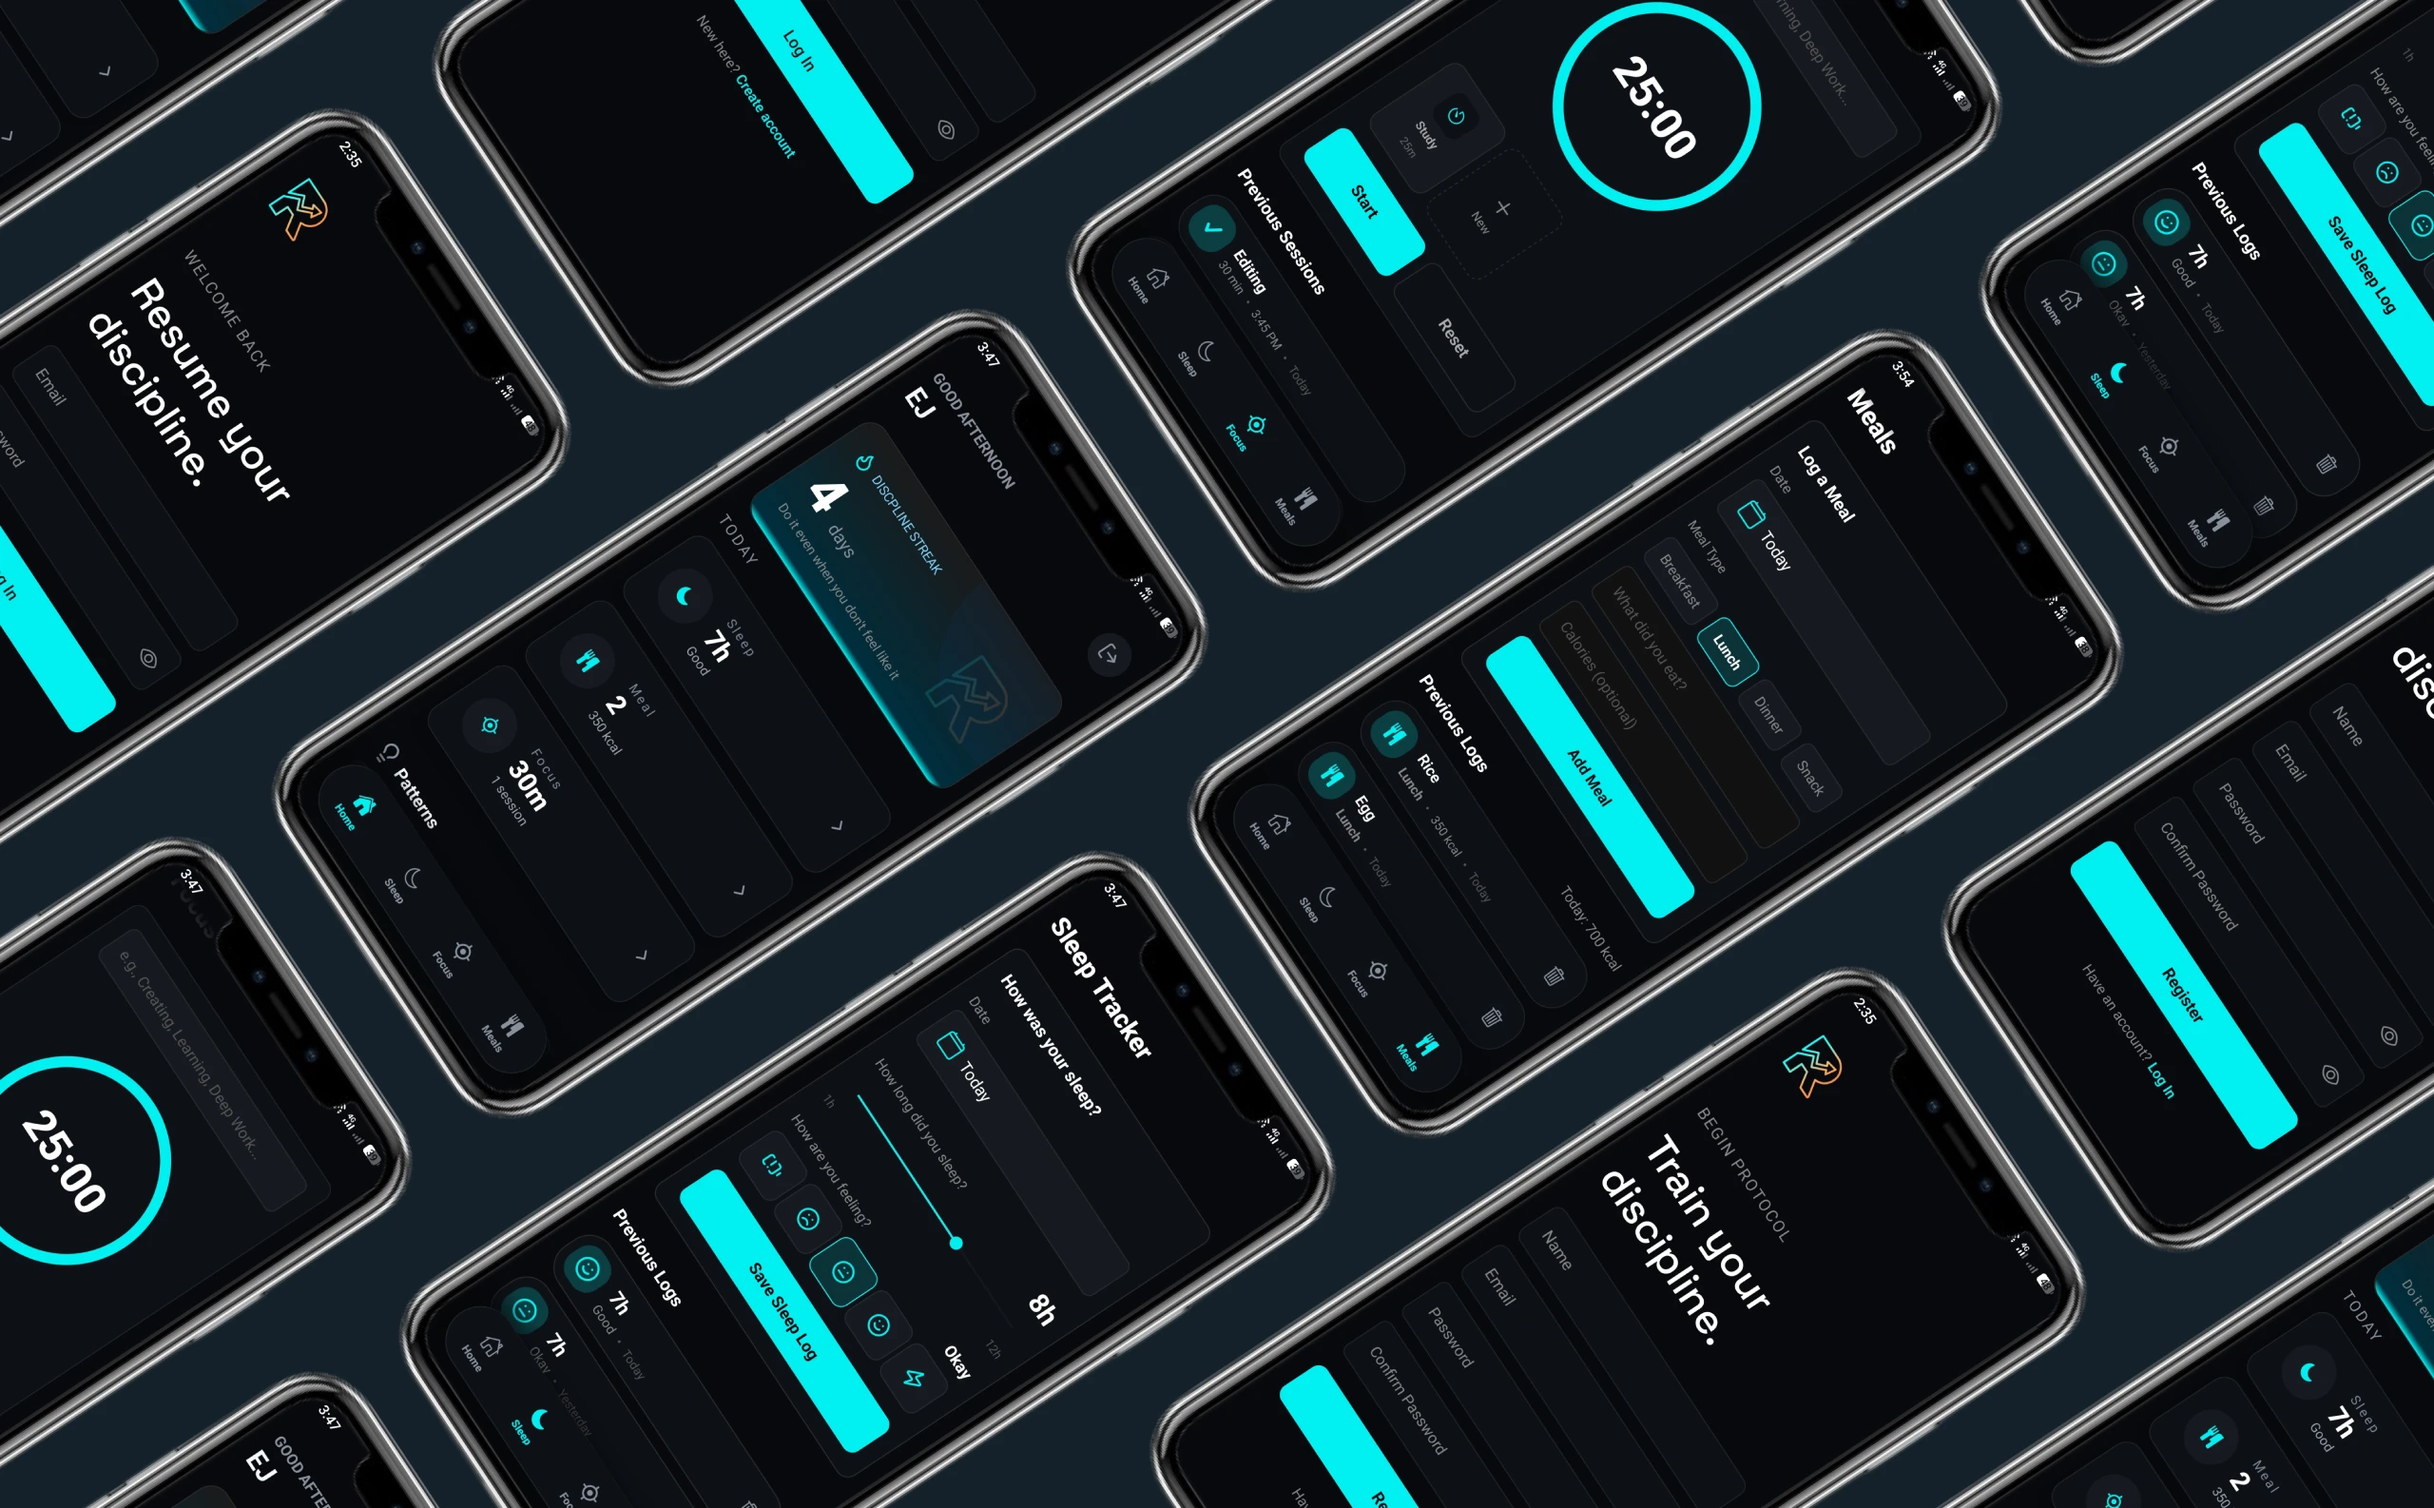
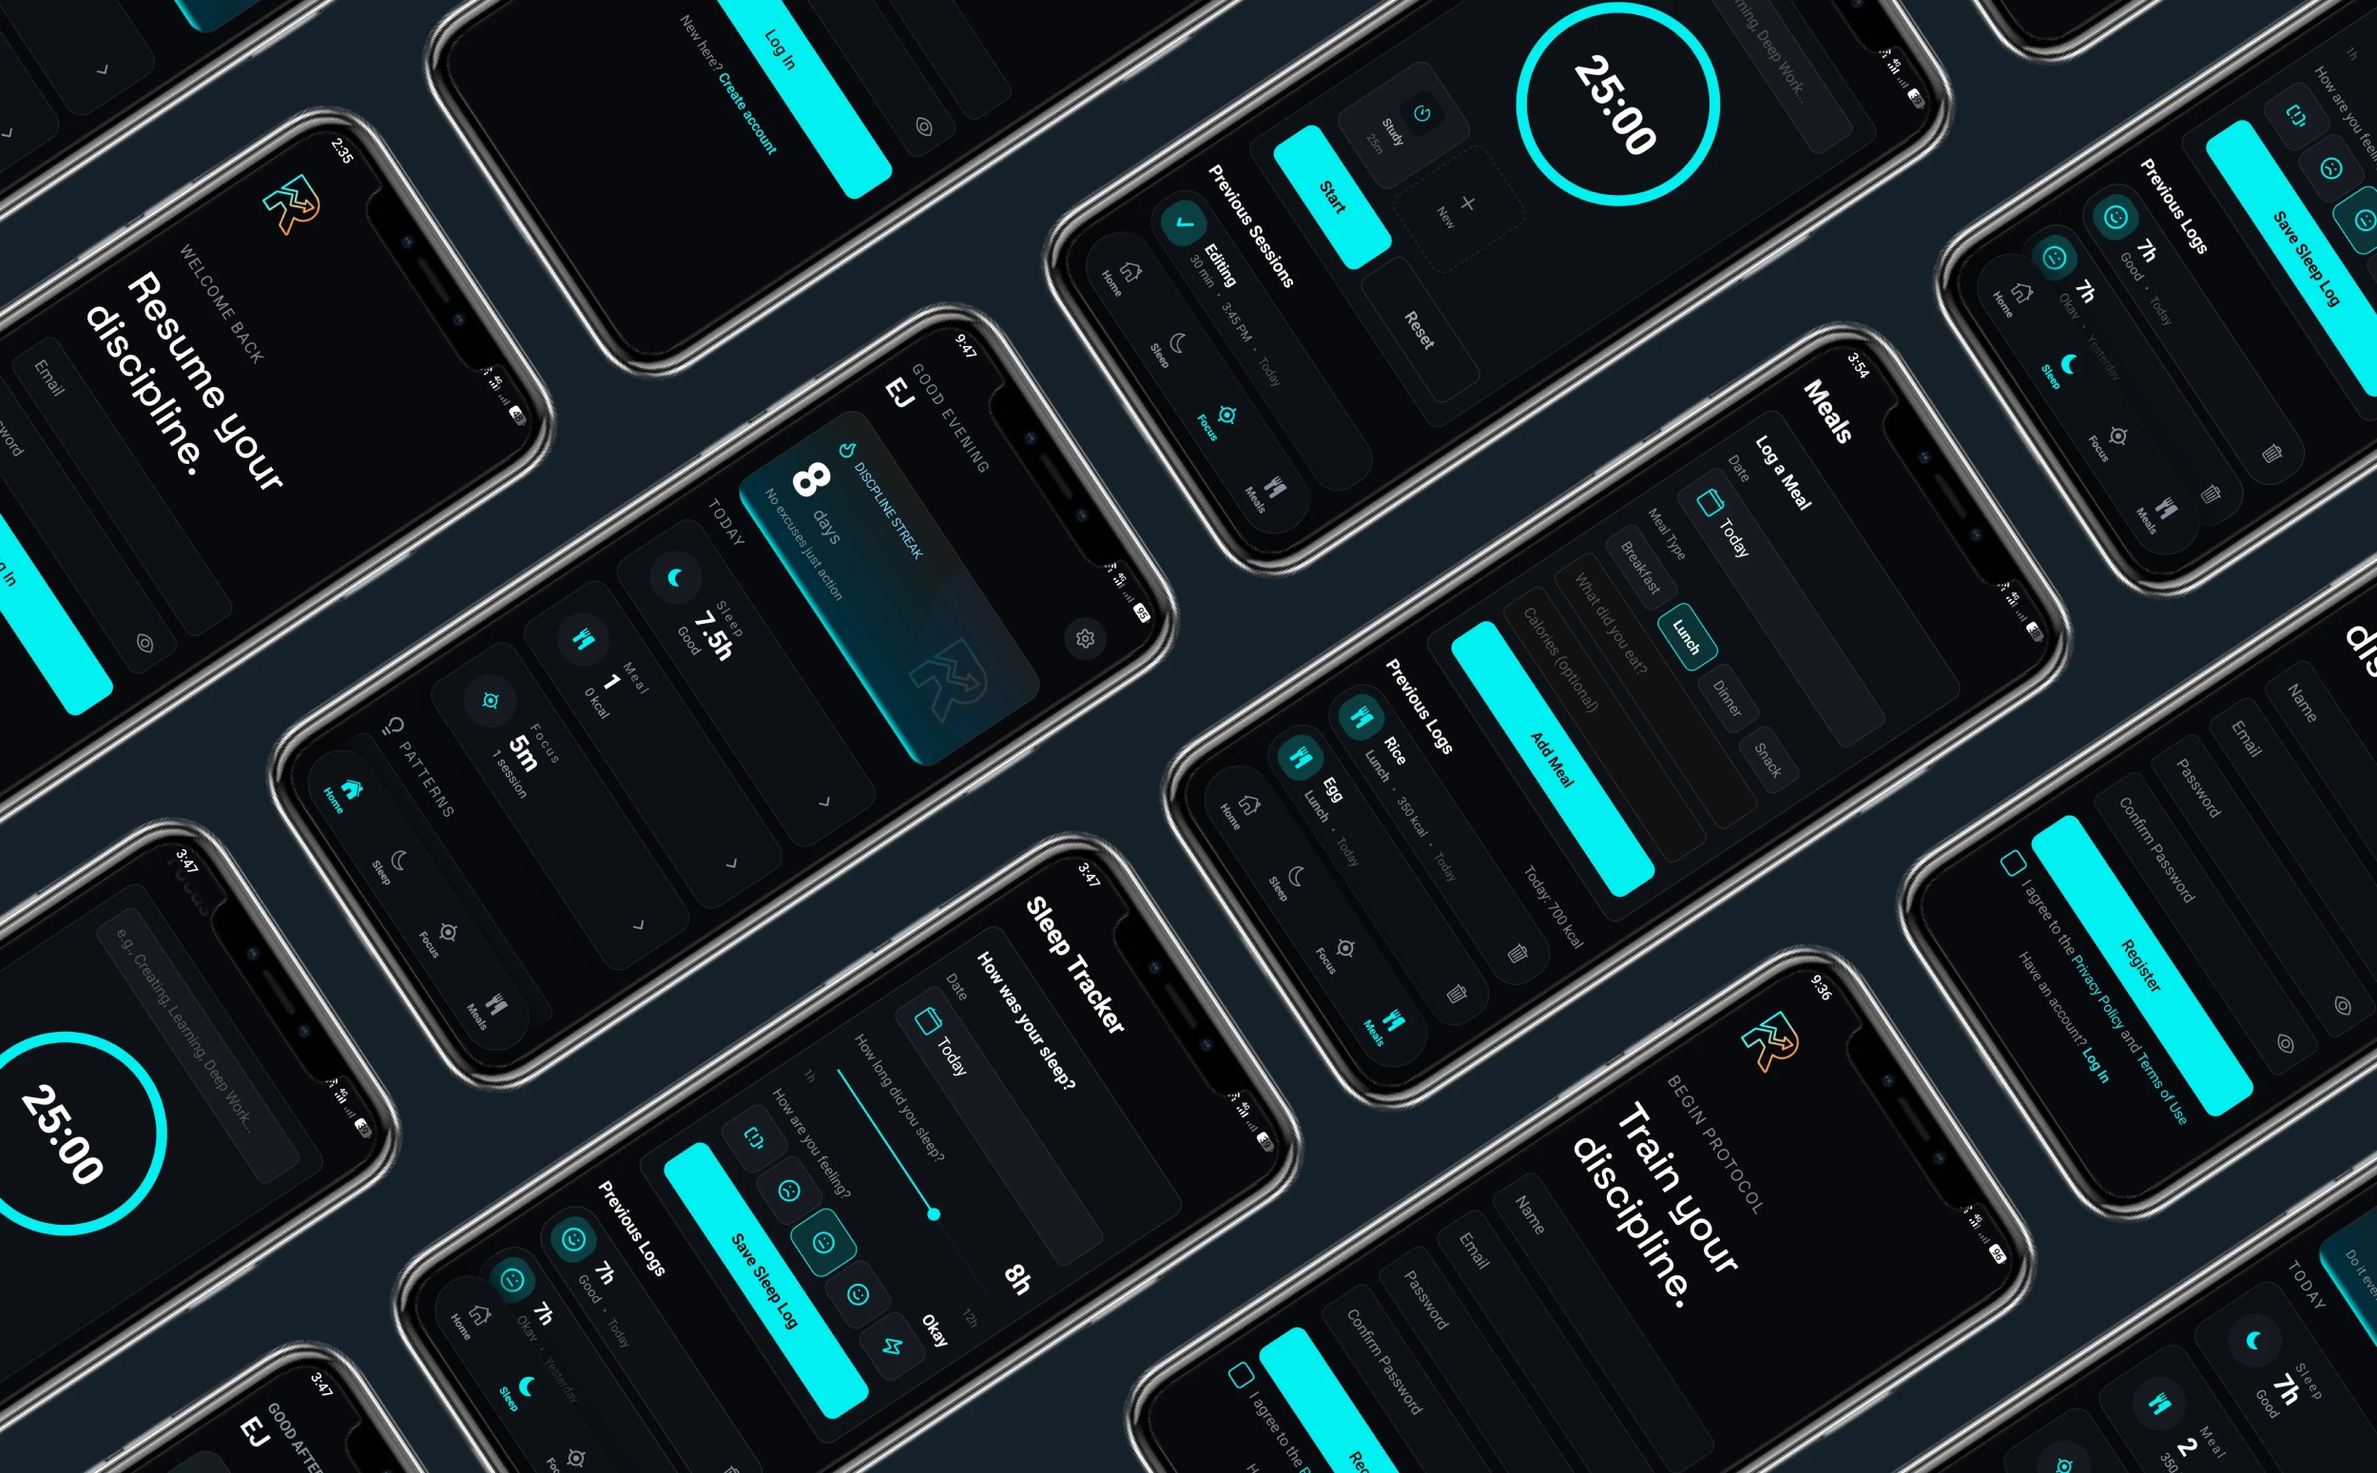
Update: Photo and Description for RiseOS

diff --git a/project.html b/project.html
@@ -96,7 +96,7 @@
         {
           title: "RiseOS",
           type: "Personal",
-          desc: "A personal discipline tracker that helps users build consistent habits by logging focus sessions, sleep, and meals with streak tracking to keep them accountable.",
+          desc: "A full-stack habit-tracking app designed to help users stay consistent with their daily routines. It allows users to log sleep, meals, and focus sessions while tracking streaks and progress over time to build better discipline.",
           image: "asset/RiseOS.webp",
           emoji: "📈",
           tags: [
